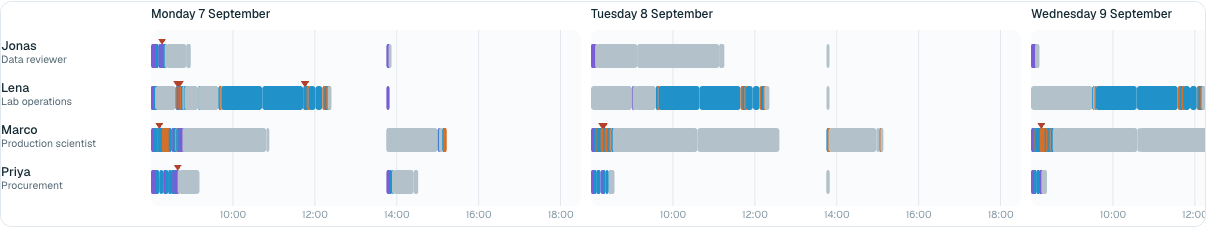
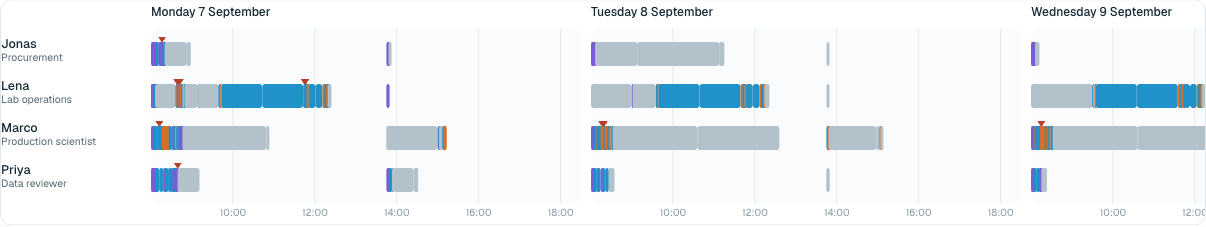
Deploy the deck, console and a landing page to Vercel with view logging
share/build_site.py builds a static site with a deck viewer, the console
and a small /api/view logger; Vercel Web Analytics is wired in. The deck
image now shows the corrected roles.

diff --git a/share/deck/project/slides/agent-trace.html b/share/deck/project/slides/agent-trace.html
@@ -1,6 +1,6 @@
 <section id="agent-trace" data-transition="fade" style="background:#fafbfd;color:#142933;font-family:'Geist', Arial, sans-serif;padding:128px 128px 160px;display:flex;flex-direction:column;justify-content:space-between;gap:32px">
 <h2 style="font-family:'Geist', Arial, sans-serif;font-size:72px;font-weight:500;line-height:1.1;letter-spacing:-3px">Four people, every action they took</h2>
-<img src="/_blob/183b15a3dc64ef3d11358601e7e08738" alt="Swimlane chart of the agent lab: one lane each for Jonas, Lena, Marco and Priya over Monday to Wednesday, each action a coloured block" style="width:1664px;height:330px;object-fit:contain;background:#ffffff;border:1px solid #e1e8ed;border-radius:16px">
+<img src="/_blob/196143d27f4f405715c888b1fae8a595" alt="Swimlane chart of the agent lab: one lane each for Jonas, Lena, Marco and Priya over Monday to Wednesday, each action a coloured block" style="width:1664px;height:330px;object-fit:contain;background:#ffffff;border:1px solid #e1e8ed;border-radius:16px">
 <div style="display:grid;grid-template-columns:1fr 1fr 1fr 1fr;gap:20px">
 <p style="font-size:26px;line-height:1.35"><span style="color:#2091c9"><b>Blue</b></span> is hands in the lab</p>
 <p style="font-size:26px;line-height:1.35"><span style="color:#d4702a"><b>Orange</b></span> is writing it into the inventory</p>

diff --git a/share/build_site.py b/share/build_site.py
@@ -1,0 +1,234 @@
+"""Build the shareable website in site/ from the console, the deck and the data.
+
+    python3 share/build_site.py && cd site && vercel deploy --prod
+
+site/
+  index.html          landing page
+  review/             the review console and its data
+  deck/               a static viewer for the presentation slides
+  api/view.js         logs each view (and each slide shown) to the Vercel logs
+  vercel.json         clean URLs, no search indexing
+"""
+import json
+import re
+import shutil
+from pathlib import Path
+
+ROOT = Path(__file__).resolve().parent.parent
+SITE = ROOT / "site"
+FONTS = '<link rel="preconnect" href="https://fonts.googleapis.com"><link rel="preconnect" href="https://fonts.gstatic.com" crossorigin><link rel="stylesheet" href="https://fonts.googleapis.com/css2?family=Geist:wght@400;500;600&family=Geist+Mono:wght@400;500&display=swap">'
+
+
+def tracking(page):
+    return f"""<script defer src="/_vercel/insights/script.js"></script>
+<script>
+window.trackView = function (extra) {{
+  try {{
+    var body = JSON.stringify(Object.assign({{ page: "{page}", path: location.pathname + location.hash, referrer: document.referrer || null, screen: innerWidth + "x" + innerHeight }}, extra || {{}}));
+    if (!(navigator.sendBeacon && navigator.sendBeacon("/api/view", new Blob([body], {{ type: "application/json" }}))))
+      fetch("/api/view", {{ method: "POST", body: body, headers: {{ "content-type": "application/json" }}, keepalive: true }});
+  }} catch (e) {{}}
+}};
+window.trackView();
+</script>"""
+
+
+def head(title, page, extra=""):
+    return f"""<!doctype html>
+<html lang="en">
+<head>
+<meta charset="utf-8">
+<meta name="viewport" content="width=device-width, initial-scale=1, viewport-fit=cover">
+<meta name="robots" content="noindex, nofollow">
+<title>{title}</title>
+{FONTS}
+{extra}
+{tracking(page)}
+</head>
+"""
+
+
+def build_review():
+    out = SITE / "review"
+    (out / "data").mkdir(parents=True)
+    src = (ROOT / "share/console/index.html").read_text()
+    title = re.search(r"<title>(.*?)</title>", src).group(1)
+    body = re.sub(r"<title>.*?</title>\n?", "", src)
+    body = re.sub(r'<meta name="claude:[^>]*>\n?', "", body)
+    body = re.sub(r"<link [^>]*>\n?", "", body)
+    reset = "<style>:root{color-scheme:light;padding-top:env(safe-area-inset-top,0px);padding-bottom:env(safe-area-inset-bottom,0px)}body{margin:0}img{max-width:100%}[hidden]{display:none!important}</style>"
+    (out / "index.html").write_text(head(title, "review", reset) + "<body>\n" + body + "\n</body>\n</html>\n")
+    for f in ("tests.json", "scenarios.json", "sim.json"):
+        shutil.copy(ROOT / "share/data" / f, out / "data" / f)
+
+
+def build_deck():
+    out = SITE / "deck"
+    (out / "img").mkdir(parents=True)
+    shutil.copy(ROOT / "share/deck/img/swimlanes.png", out / "img/swimlanes.png")
+    deck = json.loads((ROOT / "share/deck/project/deck.json").read_text())
+    slides = []
+    for sid in deck["order"]:
+        html = (ROOT / "share/deck/project/slides" / f"{sid}.html").read_text().strip()
+        html = re.sub(r"/_blob/[0-9a-f]{32}", "img/swimlanes.png", html)
+        slides.append(html)
+    css = """<style>
+:root { color-scheme: light; --ink: #142933; --muted: #546874; --line: #e1e8ed; }
+html, body { margin: 0; height: 100%; background: #0d1c24; overflow: hidden; font-family: "Geist", Arial, sans-serif; }
+.stage { position: fixed; inset: 0; display: grid; place-items: center; }
+.frame { position: absolute; left: 50%; top: 50%; width: 1920px; height: 1080px; transform-origin: center center; }
+section { position: absolute; inset: 0; width: 1920px; height: 1080px; box-sizing: border-box; overflow: hidden; opacity: 0; visibility: hidden; transition: opacity .25s ease; }
+section.on { opacity: 1; visibility: visible; }
+section * { box-sizing: border-box; margin: 0; }
+section aside { display: none; }
+section h1 { font-size: 96px; font-weight: 600; line-height: 1.1; }
+section h2 { font-size: 64px; font-weight: 600; line-height: 1.15; }
+section h3 { font-size: 44px; font-weight: 600; line-height: 1.2; }
+section p { font-size: 32px; line-height: 1.4; }
+section ul, section ol { padding-left: 1.2em; }
+section table { border-collapse: collapse; width: 100%; }
+section th, section td { padding: 0.35em 0.6em; text-align: left; vertical-align: top; border-bottom: 1px solid #e1e8ed; }
+section th { font-weight: 600; color: #4f6470; }
+section img { display: block; }
+x-shape { display: block; flex: none; }
+x-shape[kind="arrow-right"] { clip-path: polygon(0 32%, 60% 32%, 60% 0, 100% 50%, 60% 100%, 60% 68%, 0 68%); }
+x-shape[kind="arrow-left"] { clip-path: polygon(100% 32%, 40% 32%, 40% 0, 0 50%, 40% 100%, 40% 68%, 100% 68%); }
+.bar { position: fixed; left: 0; right: 0; bottom: 0; display: flex; align-items: center; gap: 12px; padding: 10px max(16px, env(safe-area-inset-left, 0px)) calc(10px + env(safe-area-inset-bottom, 0px)); color: #b9ccd6; font: 13px "Geist", Arial, sans-serif; background: linear-gradient(transparent, rgb(13 28 36 / 0.9)); opacity: 0; transition: opacity .2s; }
+body:hover .bar, .bar:focus-within { opacity: 1; }
+.bar button { font: inherit; color: #f2f6f8; background: rgb(255 255 255 / 0.08); border: 1px solid rgb(255 255 255 / 0.15); border-radius: 999px; padding: 6px 14px; cursor: pointer; }
+.bar .count { font-family: "Geist Mono", monospace; }
+.bar .by { margin-left: auto; }
+.notes { position: fixed; left: 50%; bottom: 56px; transform: translateX(-50%); width: min(900px, calc(100% - 32px)); max-height: 40vh; overflow: auto; background: #142933; color: #eaf1f5; border: 1px solid #25414f; border-radius: 12px; padding: 16px 18px; font: 15px/1.55 "Geist", Arial, sans-serif; }
+</style>"""
+    body = f"""<body>
+<div class="stage"><div class="frame" id="frame">
+{chr(10).join(slides)}
+</div></div>
+<div class="notes" id="notes" hidden></div>
+<div class="bar">
+  <button id="prev" aria-label="Previous slide">Previous</button>
+  <button id="next" aria-label="Next slide">Next</button>
+  <span class="count" id="count"></span>
+  <button id="toggle-notes">Speaker notes (N)</button>
+  <span class="by">Take-home by Batuhan Aktas for Adaptyv Bio</span>
+</div>
+<script>
+(function () {{
+  var slides = Array.prototype.slice.call(document.querySelectorAll("#frame > section"));
+  var frame = document.getElementById("frame"), notes = document.getElementById("notes");
+  var i = Math.max(0, Math.min(slides.length - 1, (parseInt(location.hash.slice(1), 10) || 1) - 1));
+  var seen = {{}};
+  function fit() {{ var s = Math.min(innerWidth / 1920, innerHeight / 1080); frame.style.transform = "translate(-50%, -50%) scale(" + s + ")"; }}
+  function show(n) {{
+    i = Math.max(0, Math.min(slides.length - 1, n));
+    slides.forEach(function (s, k) {{ s.classList.toggle("on", k === i); }});
+    document.getElementById("count").textContent = (i + 1) + " / " + slides.length;
+    var a = slides[i].querySelector("aside"); notes.textContent = a ? a.textContent : "No notes for this slide.";
+    try {{ history.replaceState(null, "", "#" + (i + 1)); }} catch (e) {{}}
+    if (!seen[i]) {{ seen[i] = 1; window.trackView && window.trackView({{ slide: i + 1, slide_id: slides[i].id }}); }}
+  }}
+  document.getElementById("prev").onclick = function () {{ show(i - 1); }};
+  document.getElementById("next").onclick = function () {{ show(i + 1); }};
+  document.getElementById("toggle-notes").onclick = function () {{ notes.hidden = !notes.hidden; }};
+  addEventListener("keydown", function (e) {{
+    if (["ArrowRight", "PageDown", " ", "Enter"].indexOf(e.key) >= 0) {{ e.preventDefault(); show(i + 1); }}
+    else if (["ArrowLeft", "PageUp", "Backspace"].indexOf(e.key) >= 0) {{ e.preventDefault(); show(i - 1); }}
+    else if (e.key === "Home") show(0); else if (e.key === "End") show(slides.length - 1);
+    else if (e.key === "n" || e.key === "N") notes.hidden = !notes.hidden;
+  }});
+  var x0 = null;
+  addEventListener("touchstart", function (e) {{ x0 = e.touches[0].clientX; }}, {{ passive: true }});
+  addEventListener("touchend", function (e) {{ if (x0 === null) return; var dx = e.changedTouches[0].clientX - x0; if (Math.abs(dx) > 40) show(i + (dx < 0 ? 1 : -1)); x0 = null; }});
+  addEventListener("resize", fit); fit(); show(i);
+}})();
+</script>
+</body>
+</html>
+"""
+    (out / "index.html").write_text(head(deck["title"], "deck", css) + body)
+
+
+def build_index():
+    css = """<style>
+:root { color-scheme: light; --paper: #fafbfd; --sheet: #ffffff; --ink: #142933; --muted: #546874; --line: #e1e8ed; --soft: #e9f2f7; --accent: #2091c9; }
+@media (prefers-color-scheme: dark) { :root { color-scheme: dark; --paper: #0d1c24; --sheet: #142933; --ink: #eaf1f5; --muted: #93a8b4; --line: #25414f; --soft: #183a4b; --accent: #36b7f6; } }
+* { box-sizing: border-box; }
+body { margin: 0; background: var(--paper); color: var(--ink); font: 16px/1.55 "Geist", Arial, sans-serif; -webkit-font-smoothing: antialiased; }
+main { max-width: 980px; margin: 0 auto; padding-block: 72px 64px; padding-left: max(20px, env(safe-area-inset-left, 0px)); padding-right: max(20px, env(safe-area-inset-right, 0px)); display: grid; gap: 28px; }
+h1 { font-weight: 500; font-size: clamp(36px, 6vw, 60px); line-height: 1.05; letter-spacing: -0.05em; margin: 0; text-wrap: balance; }
+.lede { font-size: 19px; color: var(--muted); max-width: 64ch; margin: 0; }
+.cards { display: grid; grid-template-columns: repeat(auto-fit, minmax(min(100%, 300px), 1fr)); gap: 16px; }
+a.card { display: grid; gap: 8px; padding: 24px; border-radius: 16px; background: var(--sheet); border: 1px solid var(--line); color: inherit; text-decoration: none; transition: border-color .15s; }
+a.card:hover, a.card:focus-visible { border-color: var(--accent); outline: none; }
+a.card h2 { margin: 0; font-weight: 500; font-size: 24px; letter-spacing: -0.03em; }
+a.card p { margin: 0; color: var(--muted); }
+a.card span { color: var(--accent); font-weight: 500; }
+.by { color: var(--muted); font-size: 14px; }
+</style>"""
+    body = """<body><main>
+<p class="by">Take-home by Batuhan Aktas for Adaptyv Bio</p>
+<h1>Lab inventory you can trust</h1>
+<p class="lede">A data model where every number can explain where it came from. Facts and rules go in; how much is left, what is usable and why not, where things are and what a bad batch touched are all worked out when someone asks.</p>
+<div class="cards">
+  <a class="card" href="/deck"><h2>The presentation</h2><p>How the work was done and the decisions that carry it. Arrow keys to move, N for speaker notes.</p><span>Open the slides</span></a>
+  <a class="card" href="/review"><h2>The review console</h2><p>Every scenario test as a timeline, both simulations as pictures, and all 244 scenarios.</p><span>Open the console</span></a>
+</div>
+</main></body></html>
+"""
+    (SITE / "index.html").write_text(head("Lab Inventory You Can Trust", "home", css) + body)
+
+
+def build_api():
+    (SITE / "api").mkdir()
+    (SITE / "api/view.js").write_text("""// Logs each page view and each slide shown. Read them under Logs in the Vercel
+// project (filter on "view"). No cookies, and no IP address is kept.
+export default async function handler(req, res) {
+  if (req.method !== "POST") { res.status(405).end(); return; }
+  let data = req.body;
+  if (typeof data === "string") { try { data = JSON.parse(data); } catch { data = {}; } }
+  data = data || {};
+  const h = req.headers;
+  const clean = (v, n = 200) => (typeof v === "string" ? v.slice(0, n) : v ?? null);
+  console.log(JSON.stringify({
+    view: true,
+    at: new Date().toISOString(),
+    page: clean(data.page, 40),
+    slide: Number.isInteger(data.slide) ? data.slide : null,
+    slide_id: clean(data.slide_id, 60),
+    path: clean(data.path),
+    referrer: clean(data.referrer),
+    screen: clean(data.screen, 20),
+    country: h["x-vercel-ip-country"] || null,
+    city: h["x-vercel-ip-city"] ? decodeURIComponent(h["x-vercel-ip-city"]) : null,
+    agent: clean(h["user-agent"], 160),
+  }));
+  res.status(204).end();
+}
+""")
+    (SITE / "package.json").write_text(json.dumps({"name": "lab-inventory-review", "private": True, "type": "module"}, indent=2) + "\n")
+    (SITE / "vercel.json").write_text(json.dumps({
+        "cleanUrls": True,
+        "headers": [{"source": "/(.*)", "headers": [{"key": "X-Robots-Tag", "value": "noindex, nofollow"}]}],
+    }, indent=2) + "\n")
+
+
+def main():
+    keep = SITE / ".vercel"
+    saved = None
+    if keep.exists():
+        saved = SITE.parent / ".vercel-keep"
+        shutil.rmtree(saved, ignore_errors=True)
+        shutil.move(str(keep), str(saved))
+    shutil.rmtree(SITE, ignore_errors=True)
+    SITE.mkdir()
+    if saved:
+        shutil.move(str(saved), str(keep))
+    build_index()
+    build_review()
+    build_deck()
+    build_api()
+    print("built", sum(1 for _ in SITE.rglob("*") if _.is_file()), "files in site/")
+
+
+if __name__ == "__main__":
+    main()

diff --git a/README.md b/README.md
@@ -41,6 +41,16 @@ Filled in as they're finished.
 | What we cut and why | [`docs/cuts.md`](docs/cuts.md) |
 | Assumptions | [`docs/assumptions.md`](docs/assumptions.md) |
 
+## Shared online
+
+The landing page, deck and review console are deployed at https://lab-inventory-batuhan.vercel.app (not indexed by search engines). To rebuild and redeploy after a change:
+
+```
+python3 share/build_site.py && cd site && vercel deploy --prod
+```
+
+Each page view, and each slide shown in the deck, is logged by `site/api/view.js` to the Vercel project's logs. Vercel Web Analytics gives longer-term view counts once it's switched on in the project's Analytics tab.
+
 ## How this was made
 
 Batuhan Aktas did this with heavy use of AI tools (Claude Code, with Codex as a second opinion), which the brief allows. The `journal/` folder shows where agents did the work and where the decisions were made.
